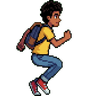
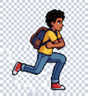
feat: sprites PNG animados para leão (4 frames) e Pedro redesenhado
Leão: substituição dos SVGs estáticos por 4 frames de galope PNG gerados
via Gemini com referência canônica (lion_reference.png). lion.gd atualizado
para 4 frames, Lion.tscn desacoplado do SVG.

Pedro: 4 frames refeitos com poses explícitas e bem distintas — contato
direito, passagem/baixo, contato esquerdo (espelho) e fase aérea.
Prompts detalhados de braços/pernas opostos garantem animação mais fluida.

generate.py: suporte a múltiplos --ref, flag --size WxH com crop +
chroma key + normalização via Pillow, default model corrigido.

diff --git a/scripts/dev/generate.py b/scripts/dev/generate.py
@@ -1,18 +1,19 @@
 #!/usr/bin/env -S uv run --script
 # /// script
-# dependencies = ["google-genai"]
+# dependencies = ["google-genai", "Pillow"]
 # ///
 """
 Gera imagens via Gemini API.
 
 Uso:
-  generate.py <output> "<prompt>" [--ref <imagem>] [--model <model>]
+  generate.py <output> "<prompt>" [--ref <img>] [--model <model>] [--size WxH]
 
 Exemplos:
-  generate.py assets/art/item_bad_new.png "Pixel art briefcase..."
-  generate.py assets/art/player_sheet.png "4 frames..." --ref assets/art/pedro_reference.png
+  generate.py assets/art/item_bad.png "Pixel art briefcase..."
+  generate.py assets/art/player_0.png "Frame 1..." --ref assets/art/ref.png --size 88x96
 """
 import argparse
+import io
 import subprocess
 import sys
 from pathlib import Path
@@ -31,18 +32,46 @@ def get_api_key() -> str:
     return key
 
 
-def generate(output: str, prompt: str, ref: str | None, model: str) -> None:
+def _normalize(data: bytes, w: int, h: int) -> bytes:
+    from PIL import Image
+    img = Image.open(io.BytesIO(data)).convert("RGBA")
+
+    # Chroma key: remove lime-green bg if present
+    pixels = img.load()
+    for y in range(img.height):
+        for x in range(img.width):
+            r, g, b, a = pixels[x, y]
+            if g > 100 and g > r * 1.3 and g > b * 1.3:
+                pixels[x, y] = (0, 0, 0, 0)
+
+    bbox = img.getbbox()
+    if bbox:
+        img = img.crop(bbox)
+
+    canvas = Image.new("RGBA", (w, h), (0, 0, 0, 0))
+    img.thumbnail((w, h), Image.LANCZOS)
+    ox = (w - img.width) // 2
+    oy = (h - img.height) // 2
+    canvas.paste(img, (ox, oy), img)
+
+    buf = io.BytesIO()
+    canvas.save(buf, format="PNG")
+    return buf.getvalue()
+
+
+def generate(output: str, prompt: str, refs: list[str], model: str, size: str | None) -> None:
     client = genai.Client(api_key=get_api_key())
 
     parts: list = []
-    if ref:
+    for ref in refs:
         ref_path = Path(ref)
         if not ref_path.exists():
             sys.exit(f"Referência não encontrada: {ref}")
         parts.append(types.Part.from_bytes(data=ref_path.read_bytes(), mime_type="image/png"))
     parts.append(prompt)
 
-    print(f"→ Gerando: {output}" + (f" (ref: {ref})" if ref else ""))
+    ref_info = f" (refs: {', '.join(refs)})" if refs else ""
+    print(f"→ Gerando: {output}{ref_info}")
 
     response = client.models.generate_content(
         model=model,
@@ -56,11 +85,14 @@ def generate(output: str, prompt: str, ref: str | None, model: str) -> None:
         if part.inline_data:
             out_path = Path(output)
             out_path.parent.mkdir(parents=True, exist_ok=True)
-            out_path.write_bytes(part.inline_data.data)
+            data = part.inline_data.data
+            if size:
+                w, h = map(int, size.split("x"))
+                data = _normalize(data, w, h)
+            out_path.write_bytes(data)
             print(f"  Salvo em: {output}")
             return
 
-    # Sem imagem — exibe texto de resposta
     for part in response.candidates[0].content.parts:
         if part.text:
             print(f"  [AVISO] {part.text}")
@@ -69,13 +101,15 @@ def generate(output: str, prompt: str, ref: str | None, model: str) -> None:
 
 def main() -> None:
     parser = argparse.ArgumentParser(description="Gera imagens via Gemini")
-    parser.add_argument("output", help="Caminho de saída (ex: assets/art/foo.png)")
+    parser.add_argument("output", help="Caminho de saída")
     parser.add_argument("prompt", help="Prompt de geração")
-    parser.add_argument("--ref", help="Imagem de referência para consistência", default=None)
+    parser.add_argument("--ref", action="append", default=[], metavar="IMG",
+                        help="Imagem de referência (pode repetir para múltiplas)")
+    parser.add_argument("--size", help="Tamanho do canvas WxH (ex: 88x96). Faz crop e normalização.", default=None)
     parser.add_argument("--model", default="gemini-3.1-flash-image-preview")
     args = parser.parse_args()
 
-    generate(args.output, args.prompt, args.ref, args.model)
+    generate(args.output, args.prompt, args.ref, args.model, args.size)
 
 
 if __name__ == "__main__":
